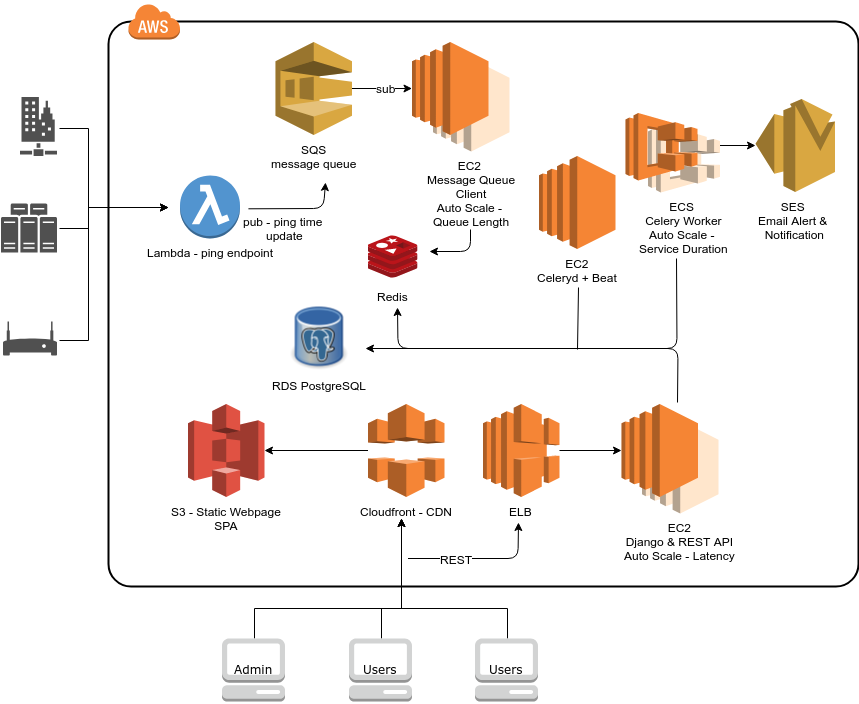
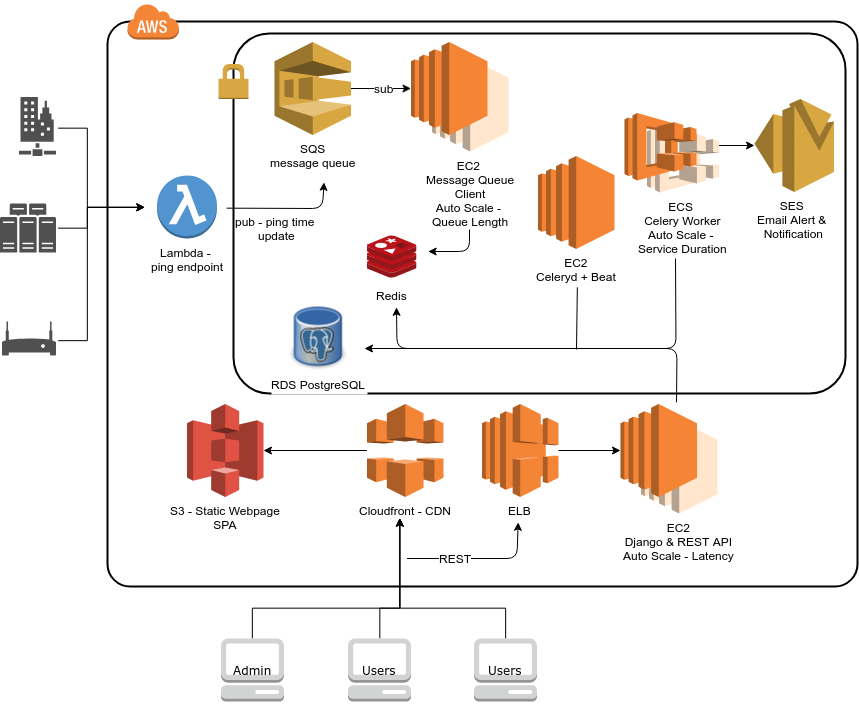
Added private subnet in infra diagram

diff --git a/README.md b/README.md
@@ -13,6 +13,7 @@ Typical monitoring use cases are:
 
 ## Table of Contents
 
+- [Changelog](#changelog)
 - [Background](#background)
 - [Proposed Setup](#proposed-setup)
 - [Project Plan](#project-plan)
@@ -21,6 +22,12 @@ Typical monitoring use cases are:
 - [Maintainers](#maintainers)
 - [Contribute](#contribute)
 - [License](#license)
+
+## Changelog
+#### 2018-07-15
+- Updated
+  - Added private subnet in infra diagram
+    
 
 ## Background
 
